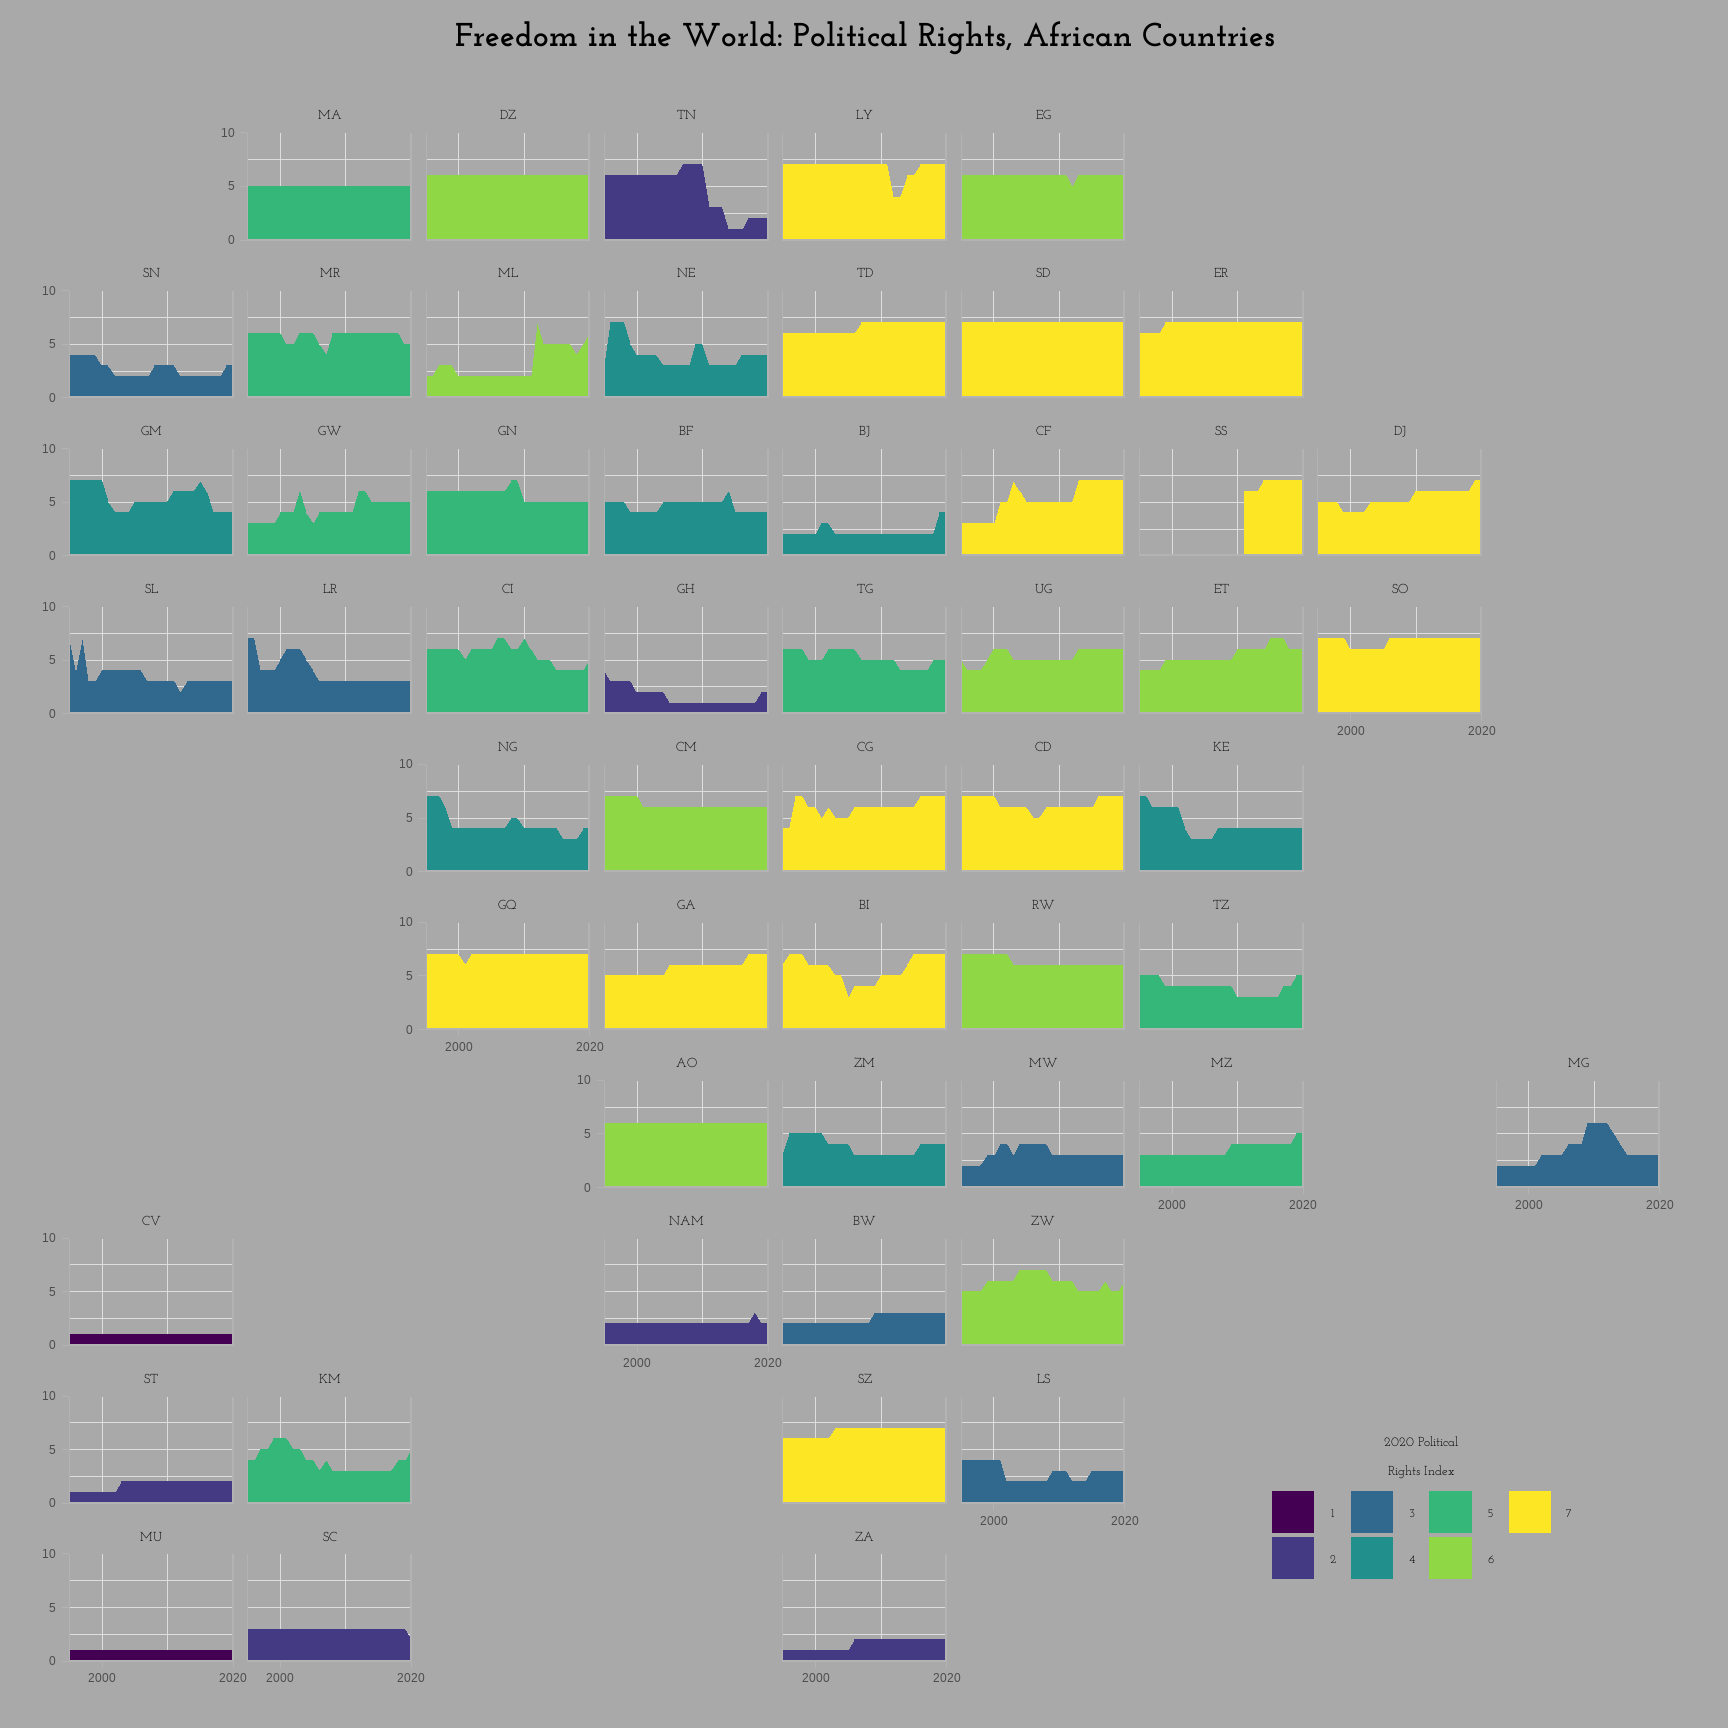
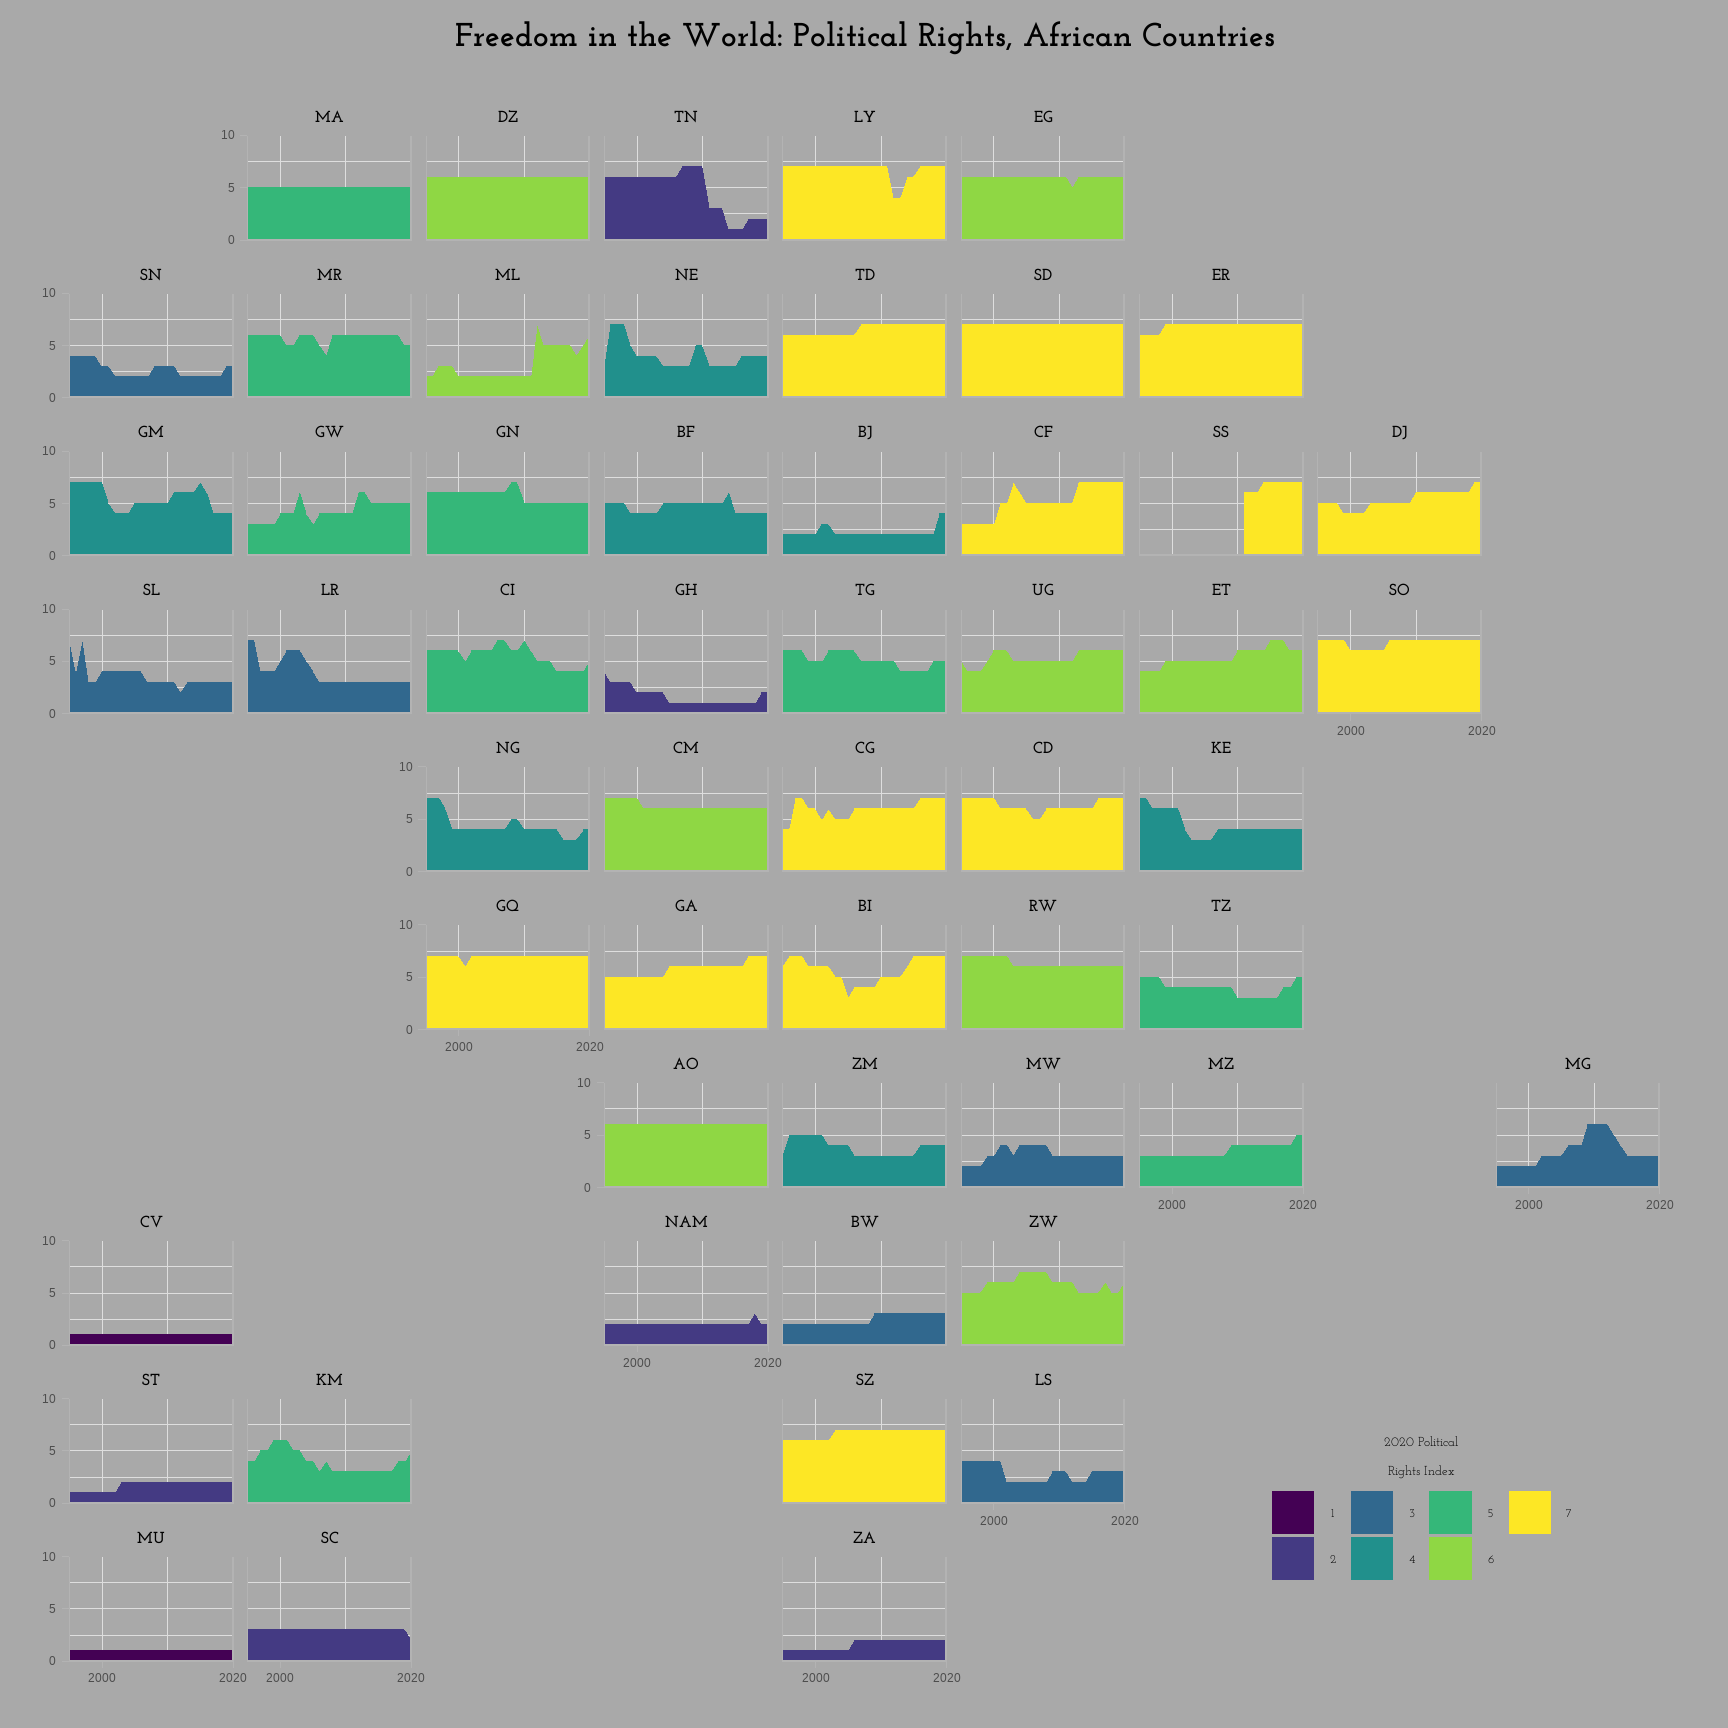
colors

Changed region(s): [[0.6875, 0.1562, 0.7188, 0.1875], [0.5938, 0.1562, 0.625, 0.1875]]

diff --git a/docs/social/FreedomintheWorld/Freedom.html b/docs/social/FreedomintheWorld/Freedom.html
@@ -268,7 +268,7 @@ code span.wa { color: #60a0b0; font-weight: bold; font-style: italic; } /* Warni
 <span id="cb1-29"><a href="#cb1-29" aria-hidden="true" tabindex="-1"></a>  </span>
 <span id="cb1-30"><a href="#cb1-30" aria-hidden="true" tabindex="-1"></a>        <span class="at">plot.caption =</span> <span class="fu">element_text</span>(<span class="at">colour =</span> <span class="st">"#fafafa"</span>, <span class="at">size=</span><span class="dv">10</span>, <span class="at">hjust =</span> <span class="fl">0.5</span>, <span class="at">family=</span><span class="st">"josefin-slab"</span>, </span>
 <span id="cb1-31"><a href="#cb1-31" aria-hidden="true" tabindex="-1"></a>                                     <span class="at">margin =</span> <span class="fu">margin</span>(<span class="dv">5</span>, <span class="dv">0</span>, <span class="dv">5</span>, <span class="dv">0</span>)), </span>
-<span id="cb1-32"><a href="#cb1-32" aria-hidden="true" tabindex="-1"></a>        <span class="at">strip.text =</span> <span class="fu">element_text</span>(<span class="at">colour =</span> <span class="st">"black"</span>, <span class="at">size=</span><span class="dv">10</span>, <span class="at">hjust =</span> <span class="fl">0.5</span>, <span class="at">family=</span><span class="st">"josefin-slab"</span>), </span>
+<span id="cb1-32"><a href="#cb1-32" aria-hidden="true" tabindex="-1"></a>        <span class="at">strip.text =</span> <span class="fu">element_text</span>(<span class="at">colour =</span> <span class="st">"black"</span>, <span class="at">size=</span><span class="dv">12</span>, <span class="at">face=</span> <span class="st">"bold"</span>,<span class="at">hjust =</span> <span class="fl">0.5</span>, <span class="at">family=</span><span class="st">"josefin-slab"</span>), </span>
 <span id="cb1-33"><a href="#cb1-33" aria-hidden="true" tabindex="-1"></a>     </span>
 <span id="cb1-34"><a href="#cb1-34" aria-hidden="true" tabindex="-1"></a>        <span class="at">strip.background =</span> <span class="fu">element_rect</span>(<span class="at">fill =</span> <span class="st">"darkgray"</span>, <span class="at">colour =</span><span class="st">"darkgray"</span>), </span>
 <span id="cb1-35"><a href="#cb1-35" aria-hidden="true" tabindex="-1"></a>        <span class="at">plot.margin =</span> <span class="fu">unit</span>(<span class="fu">c</span>(<span class="fl">0.3</span>, <span class="fl">0.9</span>, <span class="fl">0.3</span>, <span class="fl">0.3</span>), <span class="st">"cm"</span>), </span>

diff --git a/docs/portfolio.html b/docs/portfolio.html
@@ -207,7 +207,7 @@ February 28, 2202
 </a>
 </div>
 </div>
-<div class="quarto-post image-right" data-index="1" data-categories="Community,analysis,Rstudio" data-listing-date-sort="1678089600000" data-listing-file-modified-sort="1678162651465" data-listing-reading-time-sort="3.695">
+<div class="quarto-post image-right" data-index="1" data-categories="Community,analysis,Rstudio" data-listing-date-sort="1678089600000" data-listing-file-modified-sort="1678162879825" data-listing-reading-time-sort="3.7">
 <div class="thumbnail">
 <p><a href="./social/FreedomintheWorld/Freedom.html"> <img src="./social/FreedomintheWorld/free.png" class="thumnail-image"> </a></p>
 </div>
